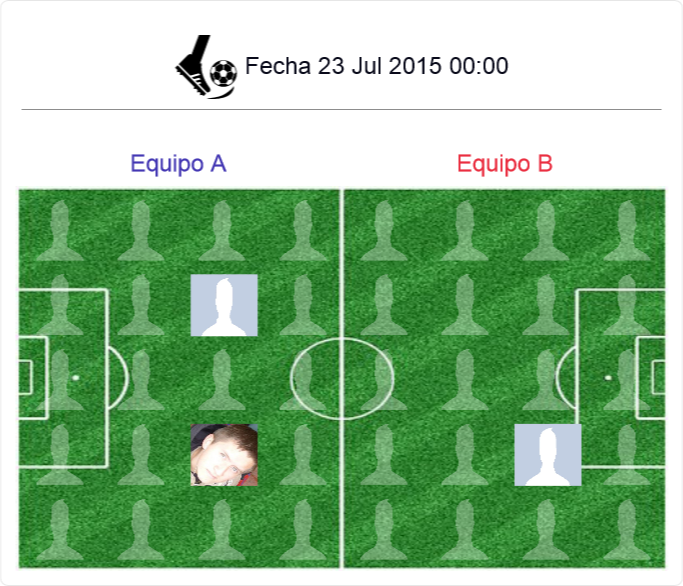
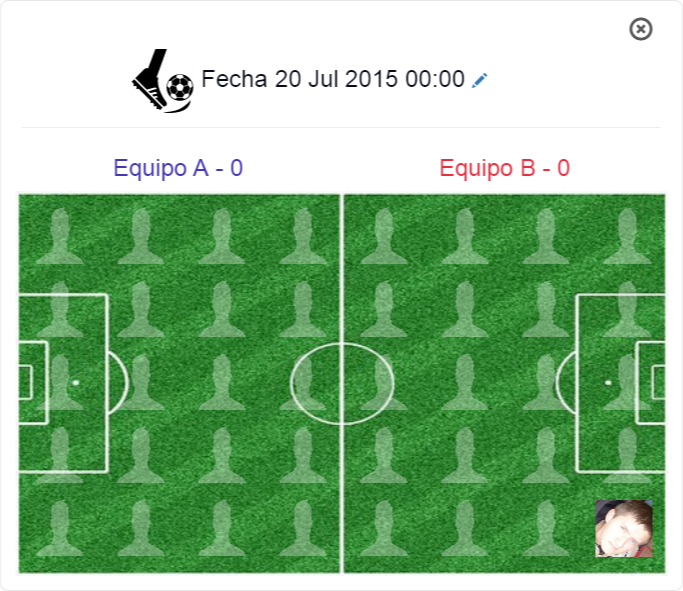
Cambios generales

diff --git a/perfiles/alineacion.php b/perfiles/alineacion.php
@@ -1,5 +1,5 @@
 <?php
-  $miconexion->consulta("select p.fecha, p.nomequipoa, p.nomequipob, c.nombre_cancha, c.direccion_cancha
+  $miconexion->consulta("select p.fecha, p.nomequipoa, p.nomequipob, c.nombre_cancha, c.direccion_cancha, p.resequipoa, p.resequipob
     from partidos p, canchas c 
     where c.id_cancha = p.id_cancha and id_partido ='".$id."' ");                 
   $cont = $miconexion->numcampos();
@@ -13,15 +13,26 @@
 ?>
 
 <div class="infor col-xs-12 col-sm-12 col-md-6 col-lg-6" id="print">
-  <h3 style="text-align:center;"><img src="../assets/img/pupos.png" class="pupos"><?php echo "  Fecha ".$fecha ?></h3><hr style="padding:1%; margin:1%">
-
+  <div class="col-xs-12 col-sm-12 col-md-12 col-lg-12">
+    <div class="edit" style=" font-size:24px;">
+      <a title="Cerrar" href="perfil.php" style="text-decoration:none; color:#585858;"><span class="glyphicon glyphicon-remove-circle"></span></a>
+    </div>
+  </div>
+  <div style="width:100%; margin-bottom:1em;">
+    <div style="width:90%; display:inline-block; text-align:center;">
+      <h3 style="text-align:center; margin:0px;"><img src="../assets/img/pupos.png" class="pupos"><?php echo "  Fecha ".$fecha ?>
+        <a title="Editar Perfil" href="perfil.php?op=editar_evento&id=<?php echo $id ?>" style="z-index:4; font-size:15px;"><span class="glyphicon glyphicon-pencil"></span></a>
+      </h3>
+    </div>
+  </div>
+  <hr style="padding:0%; margin:1%">
   <table style="width:100%; text-align:center;">
     <tr>
       <td>
-        <h3 style="color:#4337B3; font-size:170%;"><?php echo $partidos1[1] ?></h3>
+        <h3 style="color:#4337B3; font-size:170%;"><?php echo $partidos1[1]." - ".$partidos1[5] ?></h3>
       </td>
       <td>
-        <h3 style="color:#EA2E40; font-size:170%;"><?php echo $partidos1[2] ?></h3>
+        <h3 style="color:#EA2E40; font-size:170%;"><?php echo $partidos1[2]." - ".$partidos1[6] ?></h3>  
       </td>
     </tr>
   </table>
@@ -58,11 +69,9 @@
 
 <div class="infor col-xs-12 col-sm-12 col-md-6 col-lg-6" id="print2">
 
-<div style="width:85%; display:inline-block; text-align:center;">    
+<div style="width:90%; display:inline-block; text-align:center;">    
     <h1 style= "text-align: center; color:#000000; font-size:24px"> Comentarios <br> </h1>  
 </div>
-
-
 
 <form method="post" action="../include/insertar_comentario.php" enctype="multipart/form-data" class="form-horizontal">
 <?php
@@ -80,13 +89,14 @@
   <div class="form-group">    
     <a href="#" class="col-sm-2 control-label"> 
       <?php
-      echo "<img class='avatar' src='images/".$_SESSION["email"]."/".$lista[7]."' style='width:70%; height:25%' > </a> ";
+      if ($lista[7]=="") {
+        echo "<img class='avatar' src='../assets/img/user.jpg' style='width:55px; height:55px' > </a> ";
+      }else{
+        echo "<img class='avatar' src='images/".$_SESSION["email"]."/".$lista[7]."' style='width:55px; height:55px' > </a> ";
+      }
       ?>      
     <div class="col-sm-9">
-      <textarea rows="3" class="form-control" name="comentario" placeholder="Ingrese su comentario.." required>
-      
-      </textarea>
-      
+      <textarea class="form-control" name="comentario" placeholder="Ingrese su comentario.." required></textarea>      
     </div>
   </div>
 
@@ -99,7 +109,7 @@
 
 
 
-<div class="row infor" style="width: 90%;">
+<div class="row infor" style="width: 100%;">
           <div class="col-xs-12 col-sm-12 col-md-12 col-lg-12">       
             <h4>Comentarios    
                              
@@ -109,7 +119,7 @@
                 <div id="misComentarios" style="display:none;">
                   
                 <?php
-                $miconexion->consulta("select  m.avatar, c.comentario, m.email  from comentarios c, miembros m where c.email=m.email and c.id_partido=".$id." ORDER BY c.fecha ASC ");
+                $miconexion->consulta("select  m.avatar, c.comentario, m.email  from comentarios c, miembros m where c.email=m.email and c.id_partido=".$id."");
                     
                     for ($i=0; $i <$miconexion->numregistros(); $i++) { 
                         $lista_comen=$miconexion->consulta_lista();
@@ -117,9 +127,13 @@
                         echo "<article class='item'>";
                         echo "<p> ".$lista_comen[1]."</p>";
                         echo "<footer1>";
-                        echo "<a href='#' class='avatar'><img src='images/".$lista_comen[2]."/".$lista[6]."' ></a>";
+                        if ($lista_comen[2]=="") {
+                          echo "<a href='#' class='avatar'><img src='../assets/img/user.jpg' ></a>";  
+                        }else{
+                          echo "<a href='#' class='avatar'><img src='images/".$lista_comen[2]."/".$lista_comen[0]."' ></a>";                          
+                        }
                         echo "<a href='#'>".$lista_comen[2]."</a>";
-                        echo "<time datetime='2012-04-05T10:30:21+00:00 ' pubdate> </time>";
+                        echo "<time datetime='2012-04-05T10:30:21+00:00 ' pubdate> Hace 4 minutos</time>";
                         echo "</footer1>";
                         echo "</article>";
                                             

diff --git a/perfiles/col_chat.php b/perfiles/col_chat.php
@@ -5,26 +5,30 @@
   include ("../static/clase_mysql.php");
   $miconexion = new clase_mysql;
   $miconexion->conectar($db_name,$db_host, $db_user,$db_password);
-  $miconexion->consulta("select user, email, avatar from miembros where estado = 1");  
+  $miconexion->consulta("select distinct(m.email), m.user, m.avatar from miembros m
+                        left join grupos_miembros gm
+                        ON m.email = gm.email
+                        where gm.email IS NOT NULL
+                        and m.email !='".$_SESSION['email']."'");  
   if (($miconexion->numregistros()-1)==0) { 
     echo "<h5 style='text-align:center;' >No hay usuarios conectados</h5>";
   }else{
     for ($i=0; $i < $miconexion->numregistros(); $i++) { 
       $lista_chat=$miconexion->consulta_lista();
-      if($lista_chat[1]!=$_SESSION['email']){ 
+      if($lista_chat[0]!=$_SESSION['email']){ 
         if ($lista_chat[2]=="") {
         ?>    
-        <a title='En L&iacute;nea' href='javascript:void(0)' onclick='javascript: var user = new Array("<?php echo $lista_chat[0] ?>", "<?php echo $i ?>"); chatWith(user)'>
+        <a title='En L&iacute;nea' href='javascript:void(0)' onclick='javascript: var user = new Array("<?php echo $lista_chat[1] ?>", "<?php echo $i ?>"); chatWith(user)'>
         <img padding: 0px; style='width:35px; height:35px; display:inline-block;' src='../assets/img/user.jpg'></img>
-            <div style='line-height: 12px; display:inline-block; font-size: 80%; padding-left:5px;'><p style='font-size: 90%;'><?php echo $lista_chat[0] ?></p></div>
+            <div style='line-height: 12px; display:inline-block; font-size: 80%; padding-left:5px;'><p style='font-size: 90%;'><?php echo $lista_chat[1] ?></p></div>
         <img padding: 0px; style='width:15px; height:15px; display:inline-block;' src='../assets/img/conectado.png'></img>                
         </a><br>
         <?php
         }else{
         ?>
-        <a title='En L&iacute;nea' href='javascript:void(0)' onclick='javascript: var user = new Array("<?php echo $lista_chat[0] ?>", "<?php echo $i ?>"); chatWith(user)'>
-        <img padding: 0px; style='width:35px; height:35px; display:inline-block;' src='images/<?php echo $lista_chat[1] ?>/<?php echo $lista_chat[2] ?>'></img>
-            <div style='line-height: 12px; display:inline-block; font-size: 80%; padding-left:5px;'><p style='font-size: 90%;'><?php echo $lista_chat[0] ?></p></div>
+        <a title='En L&iacute;nea' href='javascript:void(0)' onclick='javascript: var user = new Array("<?php echo $lista_chat[1] ?>", "<?php echo $i ?>"); chatWith(user)'>
+        <img padding: 0px; style='width:35px; height:35px; display:inline-block;' src='images/<?php echo $lista_chat[0] ?>/<?php echo $lista_chat[2] ?>'></img>
+            <div style='line-height: 12px; display:inline-block; font-size: 80%; padding-left:5px;'><p style='font-size: 90%;'><?php echo $lista_chat[1] ?></p></div>
         <img padding: 0px; style='width:15px; height:15px; display:inline-block;' src='../assets/img/conectado.png'></img>  
         </a><br>
       <?php

diff --git a/include/insertar_oferta.php b/include/insertar_oferta.php
@@ -2,27 +2,23 @@
 
 extract($_POST);
 
+session_start();
 include("../static/clase_mysql.php");
 include("../static/site_config.php");
 $miconexion = new clase_mysql;
 $miconexion->conectar($db_name,$db_host, $db_user,$db_password);
-
-
 $id=$_POST['id'];
 echo "valor de id".$id;
-
 $miconexion->consulta("select id_grupo from partidos where id_partido=".$id);
         $g=$miconexion->consulta_lista();
         $gg=$g[0];
-
-        echo "valor de g".$gg;
-
-$miconexion->consulta("select distinct email from grupos_miembros where id_grupo <> ".$gg);
+    $miconexion->consulta("select distinct email from grupos_miembros where id_grupo <> ".$gg);
                         
         for ($i=0; $i < $miconexion->numregistros(); $i++) { 
-            $list=$miconexion->consulta_lista();
-            
-               $insert[$i]="insert into convocatoria values ('','".$list[0]."','".$id."','','','2')";
+            $list=$miconexion->consulta_lista();            
+            if ($list[0]!=$_SESSION["email"]) {
+                $insert[$i]="insert into convocatoria values ('','".$list[0]."','".$id."','','','2')";
+            }
         }
 
         for ($i=0; $i < count($insert); $i++) { 
@@ -33,8 +29,6 @@ $miconexion->consulta("select distinct email from grupos_miembros where id_grupo
                 echo "<script>location.href='../perfiles/perfil.php?op=alineacion&id=$id'</script>";
             }else{
                 echo ' <script language="javascript">alert("No se ha podido publicar oferta, Intente nuevamente");</script> ';
-    
-                # code...
             }
         }
  

diff --git a/perfiles/perfil.php b/perfiles/perfil.php
@@ -45,6 +45,10 @@ if(@$op==''){$op="perfil";}
    	$miconexion->consulta("update convocatoria set estado=1 where id_convocatoria = '".$id."' and email = '".$_SESSION['email']."'");  
   }elseif(@$act==5){
   	$miconexion->consulta("delete from convocatoria where id_convocatoria = '".$id."' and email = '".$_SESSION['email']."'");  
+  }elseif(@$act==6){
+   	$miconexion->consulta("update convocatoria set estado=1 where id_convocatoria = '".$idc."' and email = '".$_SESSION['email']."'");  
+  }elseif(@$act==7){
+  	$miconexion->consulta("delete from convocatoria where id_convocatoria = '".$idc."' and email = '".$_SESSION['email']."'");  
   }
 ?>
 <!DOCTYPE html>
@@ -337,8 +341,8 @@ if(@$op==''){$op="perfil";}
 			          	<table class="table table-striped" id="tabla_partidos">  
 			            	<?php
 			            	$miconexion->consulta("select p.id_grupo, p.id_partido, p.fecha, p.estado 
-			            		FROM partidos p, grupos_miembros gm 
-			            		WHERE p.id_grupo = gm.id_grupo and gm.email ='".$_SESSION["email"]."' ");		            	
+			            		FROM partidos p, convocatoria c
+			            		WHERE p.id_partido = c.id_partido and c.email ='".$_SESSION["email"]."' and c.estado != 2");		            	
 			            	$cont = $miconexion->numcampos();
 			            	for ($i=0; $i < $miconexion->numregistros(); $i++) { 
 				                $partidos=$miconexion->consulta_lista();

diff --git a/perfiles/notificaciones.php b/perfiles/notificaciones.php
@@ -119,9 +119,9 @@ for ($i=0; $i < $miconexion->numregistros(); $i++) {
       $notifi=$miconexion->consulta_lista();
       if ($dstart > $dend) {
         echo "<tr>";                
-        echo  "<td>Tienes un nuevo cupo ofertado.!<br>Fecha: ".$notifi1[4]."<br>Lugar: ".$notifi1[6]."<br>Grupo:".$notifi1[2]."</td>";
-        echo  "<td><a title='Aceptar' href='perfil.php?op=alineacion&act=6&id=".$notifi1[8]."'><span class='glyphicon glyphicon-ok'></span></a></td>";
-        echo  "<td><a title='Rechazar' href='perfil.php?op=alineacion&act=7&id=".$notifi1[8]."'><span class='glyphicon glyphicon-remove'></span></a></td>";
+        echo  "<td>Se han ofertado cupos.!<br>Fecha: ".$notifi1[4]."<br>Lugar: ".$notifi1[6]."<br>Grupo:".$notifi1[2]."</td>";
+        echo  "<td><a title='Aceptar' href='perfil.php?op=alineacion&act=6&idc=".$notifi1[8]."&id=".$notifi1[3]."'><span class='glyphicon glyphicon-ok'></span></a></td>";
+        echo  "<td><a title='Rechazar' href='perfil.php?op=alineacion&act=7&idc=".$notifi1[8]."&id=".$notifi1[3]."'><span class='glyphicon glyphicon-remove'></span></a></td>";
         echo "</tr>";
       }
     }
